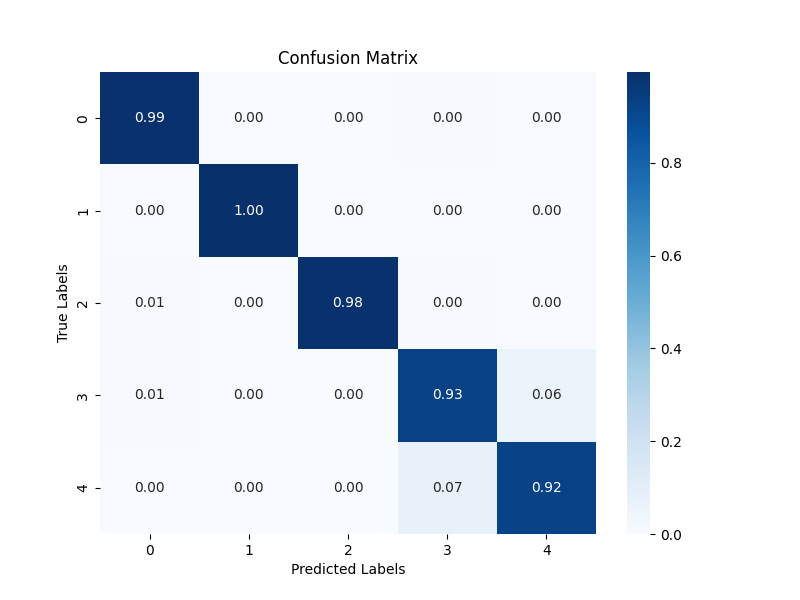
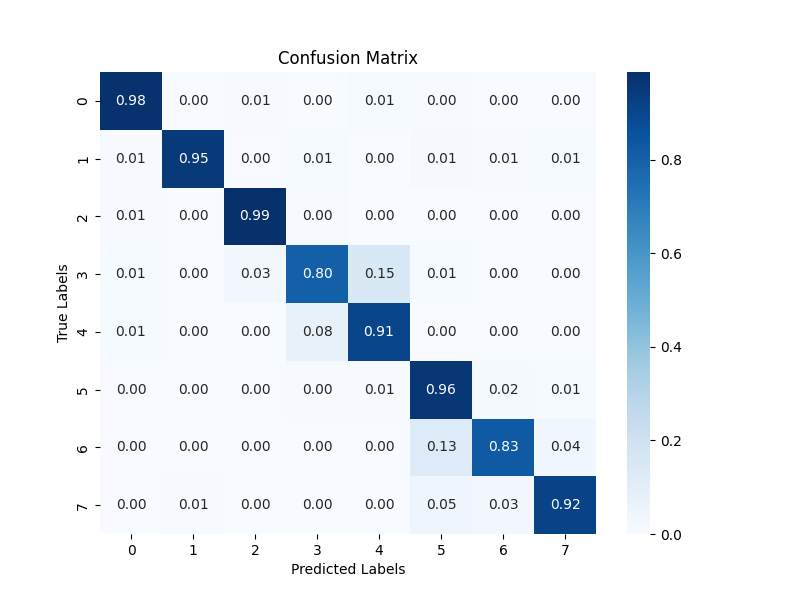
feat: 기계 결함(U, M, L) 포함 결과
평균 정확도 0.917

diff --git a/funs/utils.py b/funs/utils.py
@@ -47,7 +47,7 @@ def set_seed(seed: int):
         torch.cuda.manual_seed_all(seed)
 
 
-def get_bearing_paths(root: str, bearing_type: str, rpm_list: list) -> list:
+def get_bearing_paths(root: str, bearing_type: str, rpm_list: list, sampling_rate: str) -> list:
     """
     주어진 베어링 타입과 rpm 리스트에 따라 데이터셋 경로를 반환하는 함수.
 
@@ -65,7 +65,7 @@ def get_bearing_paths(root: str, bearing_type: str, rpm_list: list) -> list:
     list
         각 rpm에 해당하는 데이터셋 경로들의 리스트
     """
-    base = os.path.join(root, f'BearingType_{bearing_type}', 'SamplingRate_16000') # 16000만 사용
+    base = os.path.join(root, f'BearingType_{bearing_type}', f'SamplingRate_{sampling_rate}') # 16000만 사용
     return [os.path.join(base, f'RotatingSpeed_{rpm}') for rpm in rpm_list]
 
 

diff --git a/main.py b/main.py
@@ -23,9 +23,9 @@ def main(config):
 
     data_root_dirs = os.path.join(config.dataset_root)
 
-    Cylindrical_dirs = funs.get_bearing_paths(data_root_dirs, 'CylindricalRoller', config.rpm)
-    DepGroove_dirs = funs.get_bearing_paths(data_root_dirs, 'DeepGrooveBall', config.rpm)
-    Tapered_dirs = funs.get_bearing_paths(data_root_dirs, 'TaperedRoller', config.rpm)
+    Cylindrical_dirs = funs.get_bearing_paths(data_root_dirs, 'CylindricalRoller', config.rpm, config.sampling_rate)
+    DepGroove_dirs = funs.get_bearing_paths(data_root_dirs, 'DeepGrooveBall', config.rpm, config.sampling_rate)
+    Tapered_dirs = funs.get_bearing_paths(data_root_dirs, 'TaperedRoller', config.rpm, config.sampling_rate)
 
     print("Making dataframes...")
 

diff --git a/funs/databuilder.py b/funs/databuilder.py
@@ -24,11 +24,16 @@ def make_dataframe(config, data_dirs):
             split_str = filepath.split('_')
             if split_str[4] != 'H':
                 continue
+
             data = io.loadmat(filepath)
             body = data['Data']
             body = np.ravel(body, order="F")
             fault_type = split_str[3].split('/')[-1]
             bearing_type = split_str[1].split('/')[0]  
+
+            # Label(기계결함)에 없는 결함은 사용 X
+            if fault_type not in config.label:
+                continue
 
             df['data'].append(body)
             df['fault_type'].append(fault_type)

diff --git a/README.md b/README.md
@@ -1,2 +1,63 @@
 # RTOS-Machine-Fault-Diagnosis
 RTES 연구실 2025 여름방학 스터디
+
+실행방법
+1. dataset/ 폴더에 UOS 데이터셋 위치
+dataset/
+├── BearingType_CylindricalRoller
+│   ├── SamplingRate_16000
+│   │   ├── RotatingSpeed_1000
+│   │   ├── RotatingSpeed_1200
+│   │   ├── RotatingSpeed_1400
+│   │   ├── RotatingSpeed_1600
+│   │   ├── RotatingSpeed_600
+│   │   └── RotatingSpeed_800
+│   └── SamplingRate_8000
+│       ├── RotatingSpeed_1000
+│       ├── RotatingSpeed_1200
+│       ├── RotatingSpeed_1400
+│       ├── RotatingSpeed_1600
+│       ├── RotatingSpeed_600
+│       └── RotatingSpeed_800
+├── BearingType_DeepGrooveBall
+│   ├── SamplingRate_16000
+│   │   ├── RotatingSpeed_1000
+│   │   ├── RotatingSpeed_1200
+│   │   ├── RotatingSpeed_1400
+│   │   ├── RotatingSpeed_1600
+│   │   ├── RotatingSpeed_600
+│   │   └── RotatingSpeed_800
+│   └── SamplingRate_8000
+│       ├── RotatingSpeed_1000
+│       ├── RotatingSpeed_1200
+│       ├── RotatingSpeed_1400
+│       ├── RotatingSpeed_1600
+│       ├── RotatingSpeed_600
+│       └── RotatingSpeed_800
+└── BearingType_TaperedRoller
+    ├── SamplingRate_16000
+    │   ├── RotatingSpeed_1000
+    │   ├── RotatingSpeed_1200
+    │   ├── RotatingSpeed_1400
+    │   ├── RotatingSpeed_1600
+    │   ├── RotatingSpeed_600
+    │   └── RotatingSpeed_800
+    └── SamplingRate_8000
+        ├── RotatingSpeed_1000
+        ├── RotatingSpeed_1200
+        ├── RotatingSpeed_1400
+        ├── RotatingSpeed_1600
+        ├── RotatingSpeed_600
+        └── RotatingSpeed_800
+2. $ python main.py
+
+# 파일 구조 설명
+## 폴더
+funs: 코드 작업에 필요한 여러 함수들을 모아둔 패키지
+models: 저장된 모델들
+pics: 그림들 (ex: confusion matrix)
+
+## 파일
+config.yaml: 기타 설정값들을 모아둔 yaml 파일
+main.py: 주 실행 코드
+test.ipynb: 개인 확인용 ipynb 파일
